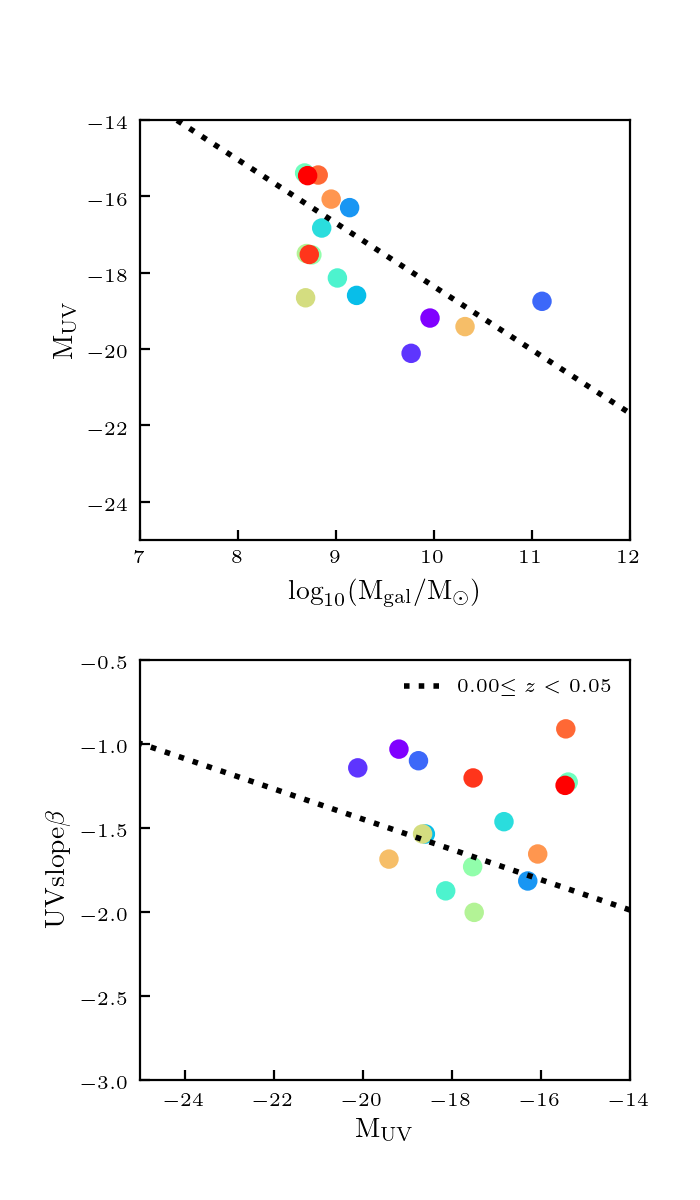
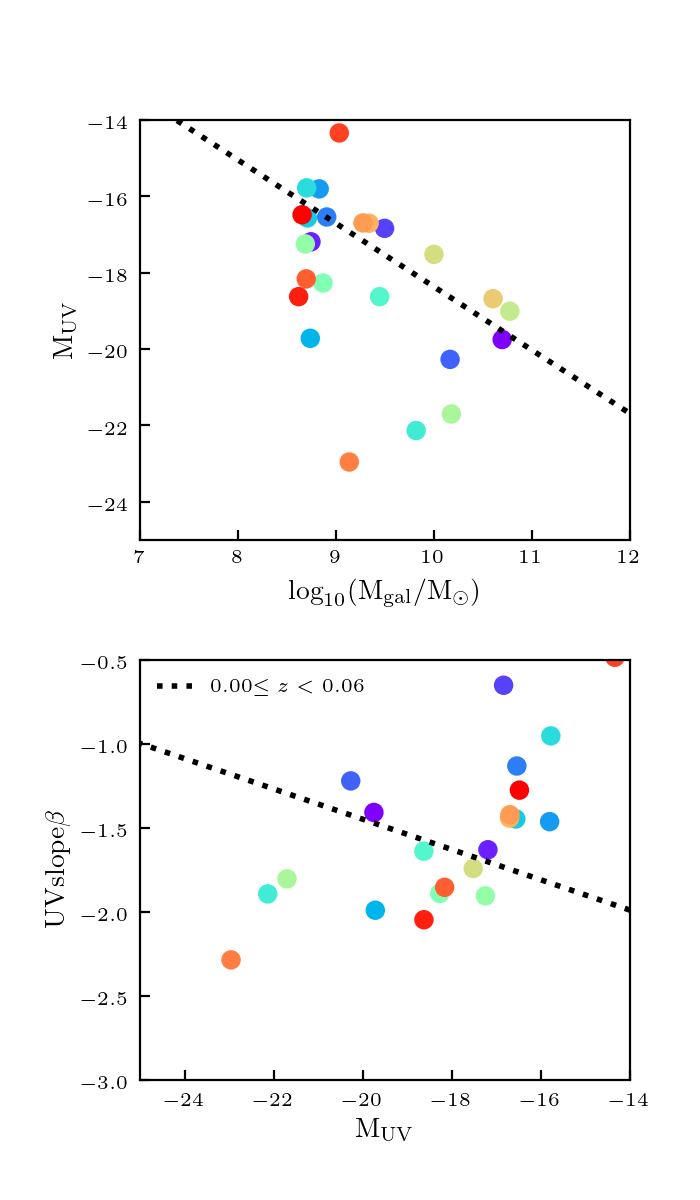
update posts

diff --git a/_posts/2020-12-11-A_Closer_Look_At_Beta.md b/_posts/2020-12-11-A_Closer_Look_At_Beta.md
@@ -27,6 +27,8 @@ Here are the spectra, $$f_{\lambda}$$ (not normalized properly, but that doesn't
 
 ## Conclusions
 
-I can't see any issues here... the $$\beta$$ values look like they agree with the spectra.
+I can't see any issues with the $$\beta$$ assignment... the values look like they agree with the spectra.
+
+I am going to look closer at the very bright orange point, as it seems unrealistic. Maybe the SFR is not assigned correctly? Or the scatter was too far off the relation, and I need to change the scatter relation?
 
 One thing I should be careful of is the effect of mass completeness. There are no galaxies below masses of $$\sim 10^8$$ in this catalog. That means I am missing the fainter objects, which should have steeper slopes (lower $$\beta$$ values).
